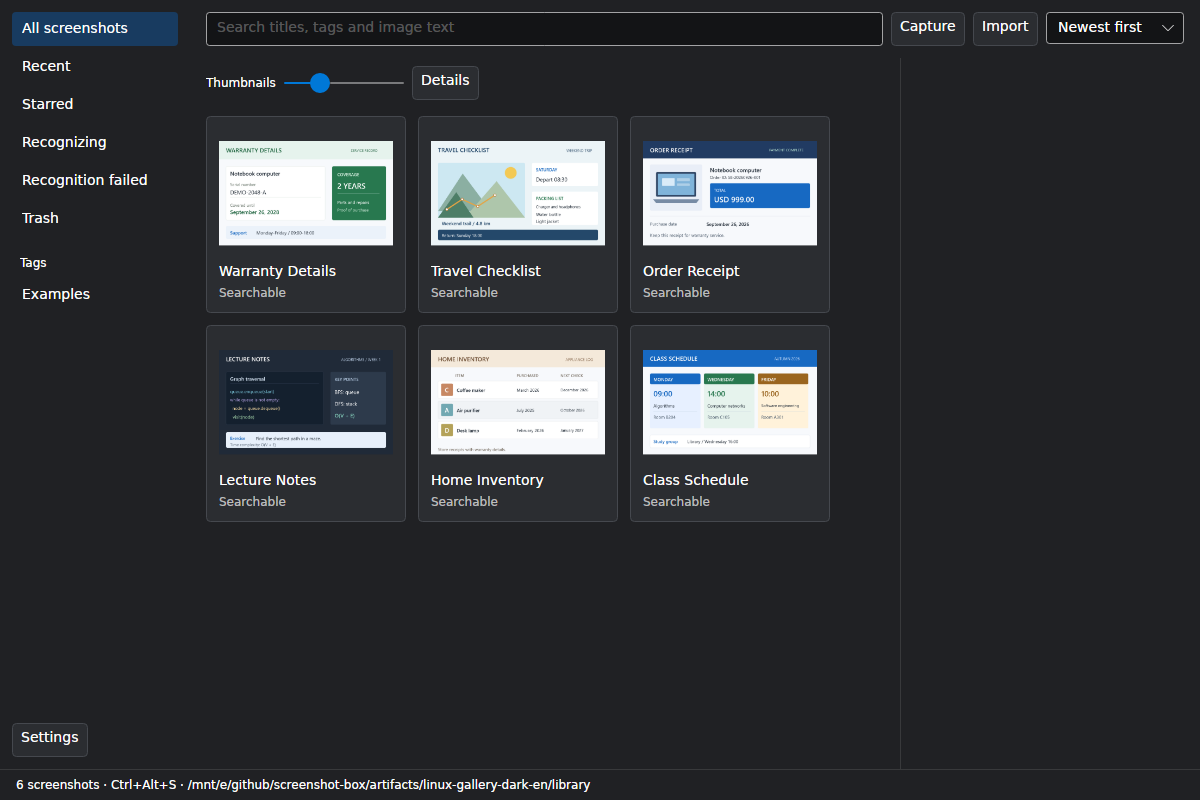
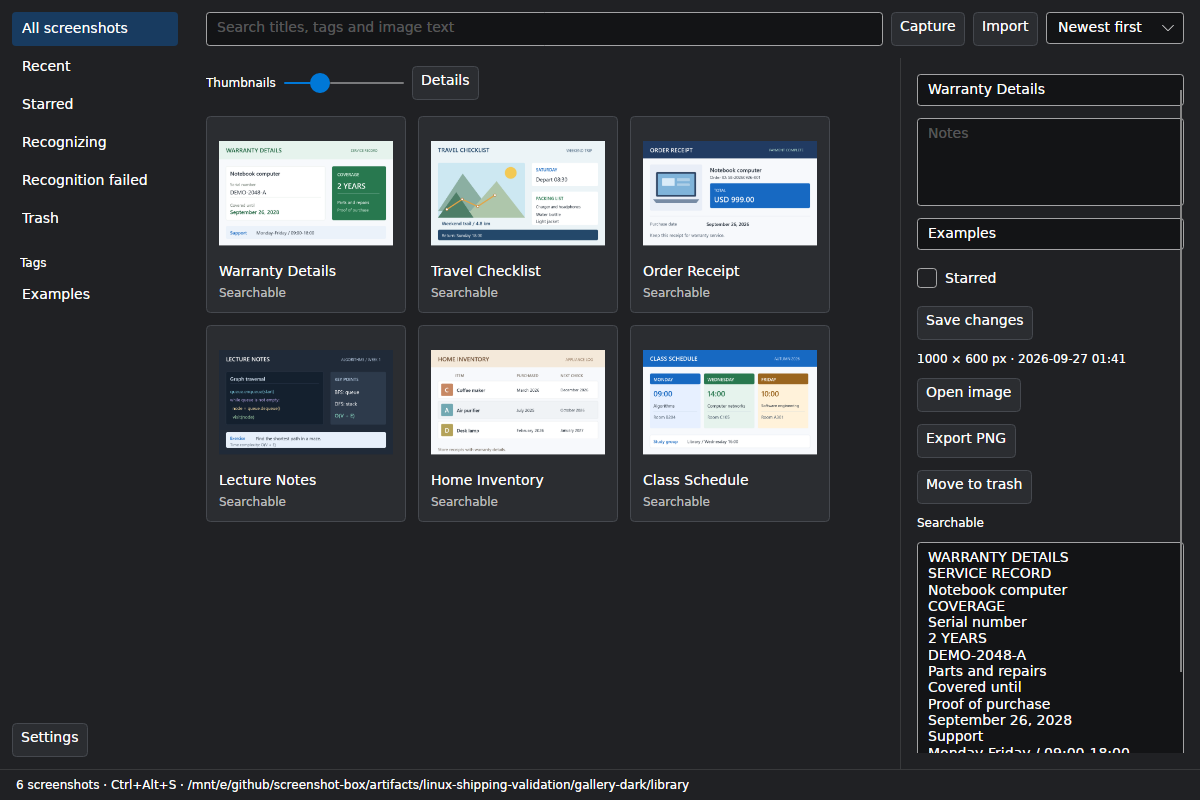
Document verified Linux release and refresh native interface images

diff --git a/docs/en/linux.md b/docs/en/linux.md
@@ -28,7 +28,7 @@ cd ScreenshotBox-0.1.5-linux.1-linux-x64
 
 An X11 display must be available. On an Ubuntu login screen, select an Xorg session if your desktop offers one. Screenshot capture and global shortcuts are disabled in a Wayland session; importing and searching existing images remain available.
 
-The package requires normal Linux desktop libraries, including X11, fontconfig, ICU, OpenSSL and the C/C++ runtime. It has been exercised on Ubuntu 20.04.3 with glibc 2.31. A missing library error can be investigated with:
+The package requires normal Linux desktop libraries, including X11, fontconfig, ICU, OpenSSL and the C/C++ runtime. It has been exercised on Ubuntu 20.04.3 with glibc 2.31. This is an experimental compatibility check: Ubuntu 20.04 is outside the current [.NET Ubuntu support list](https://learn.microsoft.com/en-us/dotnet/core/install/linux-ubuntu-install). A missing library error can be investigated with:
 
 ```bash
 ldd ./ScreenshotBox.Linux
@@ -36,6 +36,12 @@ ldd ./libSkiaSharp.so
 ldd ./libHarfBuzzSharp.so
 ldd ./libonnxruntime.so
 ldd ./libe_sqlite3.so
+```
+
+The archive is **81,310,804 bytes (77.54 MiB)**; the extracted directory is about **159.8 MiB**. SHA-256:
+
+```text
[1 lines of base64/hex data omitted]
 ```
 
 ## Install for the current user
@@ -116,12 +122,19 @@ Checks on **Ubuntu 20.04.3 / WSL, .NET 10.0.12**:
 | Linux capture component checks | 42 passed |
 | App components: English light and Chinese dark, native clipboard, second launch, edit focus, real 760 DIP window | 20 passed in each language |
 | User-only installer transactions, ownership, rollback and uninstall | 19 passed |
+| Archive permissions, ownership, payload integrity and symlink rejection | 8 passed |
+| Complete release install, update and uninstall in a Chinese path with spaces | 10 passed |
+| Final archive extraction permissions and installation lifecycle on a Linux filesystem | 13 passed |
+| Installed self-contained app in the Chinese path with spaces | 20 passed |
+| Uninstall after the app ran: original, thumbnail, database and additional files preserved | 7 passed |
 | SQLite 3.53.3 source build | Exact source ID and source checksums verified; FTS5, JSON, math, R-tree and required exports passed; maximum required glibc 2.29 |
 | Shared OCR extraction, Windows WPF Release build | Passed with no warnings or errors |
 
 Records: [capture](../test-results/linux-0.1.5-linux.1/capture.json), [services](../test-results/linux-0.1.5-linux.1/services.json), [English app](../test-results/linux-0.1.5-linux.1/app-en.json), [Chinese app](../test-results/linux-0.1.5-linux.1/app-zh.json) and [installer](../test-results/linux-0.1.5-linux.1/installer.json). These records use synthetic data; workspace paths have been replaced with a placeholder.
 
 The service OCR fixture produced five line boxes. Image-only searches found `课程`, `订单`, `保修`, `B204`, `English` and `2026-09-27`. These are programmatic component and integration checks. They do not establish that every desktop shortcut, compositor or clipboard destination works.
+
+The self-contained executable repeated the 20 app checks in each language with `DOTNET_ROOT=/nonexistent` and a path excluding the local SDK. Process-local checks blocked outgoing TCP connections except the local X11 server; Chinese CPU OCR produced five saved line boxes, and all six image-text queries still matched after restart. The final archive was extracted on a Linux filesystem and installed in a Chinese path with spaces; the installed executable passed [20 app checks](../test-results/linux-0.1.5-linux.1/installed-app.json). [Extraction and installation checks](../test-results/linux-0.1.5-linux.1/final-archive-install.json) passed 13 checks. [Uninstall after execution](../test-results/linux-0.1.5-linux.1/installed-app-uninstall.json) retained the database, original and thumbnail with unchanged hashes. The host still contains developer tools. This does not replace a disconnected fresh-machine test. See the [release checks](../test-results/linux-0.1.5-linux.1/self-contained-release.json), [complete installation checks](../test-results/linux-0.1.5-linux.1/full-release-install.json) and [package record](../test-results/linux-0.1.5-linux.1/package.json).
 
 Wayland capture and portal-based shortcuts are not implemented. Mixed-DPI multi-monitor capture, physical Ubuntu desktop sessions, manual image pastes into common Linux applications and a disconnected fresh machine without developer tools have not been verified. OCR can misread text; highlights follow whole recognized lines. The Linux preview should be evaluated separately from the Windows release.
 

diff --git a/docs/linux.md b/docs/linux.md
@@ -28,7 +28,7 @@ cd ScreenshotBox-0.1.5-linux.1-linux-x64
 
 An X11 display must be available. On an Ubuntu login screen, select an Xorg session if your desktop offers one. Screenshot capture and global shortcuts are disabled in a Wayland session; importing and searching existing images remain available.
 
-The package requires normal Linux desktop libraries, including X11, fontconfig, ICU, OpenSSL and the C/C++ runtime. It has been exercised on Ubuntu 20.04.3 with glibc 2.31. A missing library error can be investigated with:
+The package requires normal Linux desktop libraries, including X11, fontconfig, ICU, OpenSSL and the C/C++ runtime. It has been exercised on Ubuntu 20.04.3 with glibc 2.31. This is an experimental compatibility check: Ubuntu 20.04 is outside the current [.NET Ubuntu support list](https://learn.microsoft.com/en-us/dotnet/core/install/linux-ubuntu-install). A missing library error can be investigated with:
 
 ```bash
 ldd ./ScreenshotBox.Linux
@@ -36,6 +36,12 @@ ldd ./libSkiaSharp.so
 ldd ./libHarfBuzzSharp.so
 ldd ./libonnxruntime.so
 ldd ./libe_sqlite3.so
+```
+
+The archive is **81,310,804 bytes (77.54 MiB)**; the extracted directory is about **159.8 MiB**. SHA-256:
+
+```text
[1 lines of base64/hex data omitted]
 ```
 
 ## Install for the current user
@@ -116,12 +122,19 @@ Checks on **Ubuntu 20.04.3 / WSL, .NET 10.0.12**:
 | Linux capture component checks | 42 passed |
 | App components: English light and Chinese dark, native clipboard, second launch, edit focus, real 760 DIP window | 20 passed in each language |
 | User-only installer transactions, ownership, rollback and uninstall | 19 passed |
+| Archive permissions, ownership, payload integrity and symlink rejection | 8 passed |
+| Complete release install, update and uninstall in a Chinese path with spaces | 10 passed |
+| Final archive extraction permissions and installation lifecycle on a Linux filesystem | 13 passed |
+| Installed self-contained app in the Chinese path with spaces | 20 passed |
+| Uninstall after the app ran: original, thumbnail, database and additional files preserved | 7 passed |
 | SQLite 3.53.3 source build | Exact source ID and source checksums verified; FTS5, JSON, math, R-tree and required exports passed; maximum required glibc 2.29 |
 | Shared OCR extraction, Windows WPF Release build | Passed with no warnings or errors |
 
 Records: [capture](test-results/linux-0.1.5-linux.1/capture.json), [services](test-results/linux-0.1.5-linux.1/services.json), [English app](test-results/linux-0.1.5-linux.1/app-en.json), [Chinese app](test-results/linux-0.1.5-linux.1/app-zh.json) and [installer](test-results/linux-0.1.5-linux.1/installer.json). These records use synthetic data; workspace paths have been replaced with a placeholder.
 
 The service OCR fixture produced five line boxes. Image-only searches found `课程`, `订单`, `保修`, `B204`, `English` and `2026-09-27`. These are programmatic component and integration checks. They do not establish that every desktop shortcut, compositor or clipboard destination works.
+
+The self-contained executable repeated the 20 app checks in each language with `DOTNET_ROOT=/nonexistent` and a path excluding the local SDK. Process-local checks blocked outgoing TCP connections except the local X11 server; Chinese CPU OCR produced five saved line boxes, and all six image-text queries still matched after restart. The final archive was extracted on a Linux filesystem and installed in a Chinese path with spaces; the installed executable passed [20 app checks](test-results/linux-0.1.5-linux.1/installed-app.json). [Extraction and installation checks](test-results/linux-0.1.5-linux.1/final-archive-install.json) passed 13 checks. [Uninstall after execution](test-results/linux-0.1.5-linux.1/installed-app-uninstall.json) retained the database, original and thumbnail with unchanged hashes. The host still contains developer tools. This does not replace a disconnected fresh-machine test. See the [release checks](test-results/linux-0.1.5-linux.1/self-contained-release.json), [complete installation checks](test-results/linux-0.1.5-linux.1/full-release-install.json) and [package record](test-results/linux-0.1.5-linux.1/package.json).
 
 Wayland capture and portal-based shortcuts are not implemented. Mixed-DPI multi-monitor capture, physical Ubuntu desktop sessions, manual image pastes into common Linux applications and a disconnected fresh machine without developer tools have not been verified. OCR can misread text; highlights follow whole recognized lines. The Linux preview should be evaluated separately from the Windows release.
 

diff --git a/docs/zh-CN/linux.md b/docs/zh-CN/linux.md
@@ -28,7 +28,7 @@ cd ScreenshotBox-0.1.5-linux.1-linux-x64
 
 运行时需要可连接的 X11 显示服务。如果 Ubuntu 登录界面提供 Xorg 会话，可先选择该会话。Wayland 会话下禁用截图与全局快捷键，仍可导入和搜索已有图片。
 
-程序依赖正常 Linux 桌面系统提供的 X11、fontconfig、ICU、OpenSSL 和 C/C++ 运行库。目前已在 Ubuntu 20.04.3、glibc 2.31 上运行验证。遇到缺少共享库的问题，可检查：
+程序依赖正常 Linux 桌面系统提供的 X11、fontconfig、ICU、OpenSSL 和 C/C++ 运行库。目前已在 Ubuntu 20.04.3、glibc 2.31 上运行验证。这属于实验性兼容检查：Ubuntu 20.04 不在当前 [.NET 的 Ubuntu 支持列表](https://learn.microsoft.com/en-us/dotnet/core/install/linux-ubuntu-install)中。遇到缺少共享库的问题，可检查：
 
 ```bash
 ldd ./ScreenshotBox.Linux
@@ -36,6 +36,12 @@ ldd ./libSkiaSharp.so
 ldd ./libHarfBuzzSharp.so
 ldd ./libonnxruntime.so
 ldd ./libe_sqlite3.so
+```
+
+压缩包为 **81,310,804 字节（77.54 MiB）**，解压后的目录约 **159.8 MiB**。SHA-256：
+
+```text
[1 lines of base64/hex data omitted]
 ```
 
 ## 为当前用户安装
@@ -116,10 +122,17 @@ dotnet test tests/ScreenshotBox.Core.Tests/ScreenshotBox.Core.Tests.csproj --no-
 | Linux 截图组件检查 | 42 项通过 |
 | 英文浅色与中文深色应用组件：剪贴板、重复启动、编辑焦点及真实 760 DIP 窗口 | 两种语言各 20 项通过 |
 | 当前用户安装事务、所有权、回滚及卸载 | 19 项通过 |
+| 归档权限、所有者字段、内容完整性与符号链接拒绝 | 8 项通过 |
+| 完整发行包在中文空格路径安装、更新与卸载 | 10 项通过 |
+| 最终归档在 Linux 文件系统解压后的权限与安装过程 | 13 项通过 |
+| 中文空格安装路径中的自带运行时程序 | 20 项通过 |
+| 实际启动后的卸载：原图、缩略图、数据库与附加文件保留 | 7 项通过 |
 | SQLite 3.53.3 源码构建 | SOURCE_ID 与源码校验值一致；FTS5、JSON、数学函数、R-tree 和所需导出通过；最高 glibc 依赖为 2.29 |
 | OCR 共享模块提取后的 Windows WPF Release 构建 | 通过，无警告或错误 |
 
 服务验证的合成图片识别出 5 行文字框。仅凭图片文字即可搜索“课程”“订单”“保修”、`B204`、`English` 和 `2026-09-27`。上述结果属于程序化组件与集成检查，不能据此认定所有桌面快捷键、合成器或粘贴目标都已验证。
+
+自带运行时的发行程序在 `DOTNET_ROOT=/nonexistent`、不包含本地 SDK 的 PATH 下重新通过两种语言各 20 项应用检查。进程内检查阻止了除本机 X11 服务外的 TCP 连接；中文 CPU OCR 保存了 5 个文字行框，重启后六个图片文字查询仍然匹配。最终归档在 Linux 文件系统解压并安装到中文空格路径后，安装位置的程序通过 [20 项应用检查](../test-results/linux-0.1.5-linux.1/installed-app.json)，[解压与安装检查](../test-results/linux-0.1.5-linux.1/final-archive-install.json)通过 13 项。[运行后的卸载检查](../test-results/linux-0.1.5-linux.1/installed-app-uninstall.json)确认数据库、原图和缩略图的哈希保持不变。本机仍安装有开发工具，这不等同于全新断网电脑验证。见[发行程序检查](../test-results/linux-0.1.5-linux.1/self-contained-release.json)、[完整安装检查](../test-results/linux-0.1.5-linux.1/full-release-install.json)和[打包记录](../test-results/linux-0.1.5-linux.1/package.json)。
 
 Wayland 截图和基于 portal 的快捷键尚未实现。混合 DPI 多屏、实机 Ubuntu 桌面、常用 Linux 应用的手工图片粘贴，以及未安装开发工具的新机器断网运行，尚未验证。OCR 可能识别错误，高亮按识别出的整行显示。Linux 试用版的验证范围独立于 Windows 发行版。
 

diff --git a/README.en.md b/README.en.md
@@ -9,10 +9,11 @@
 [English](README.md) · [简体中文](README.zh-CN.md)
 
 [![Windows CI](https://github.com/liugedragon/screenshot-box/actions/workflows/windows.yml/badge.svg?branch=main)](https://github.com/liugedragon/screenshot-box/actions/workflows/windows.yml)
+[![Linux CI](https://github.com/liugedragon/screenshot-box/actions/workflows/linux.yml/badge.svg?branch=main)](https://github.com/liugedragon/screenshot-box/actions/workflows/linux.yml)
 [![Release](https://img.shields.io/github/v/release/liugedragon/screenshot-box?include_prereleases&label=release)](https://github.com/liugedragon/screenshot-box/releases)
 [![MIT](https://img.shields.io/badge/license-MIT-1769C2)](LICENSE)
 
-[**Download installer**](https://github.com/liugedragon/screenshot-box/releases/download/v0.1.4/ScreenshotBox-0.1.4-win-x64-setup.exe) · [**Download ZIP**](https://github.com/liugedragon/screenshot-box/releases/download/v0.1.4/ScreenshotBox-0.1.4-win-x64.zip) · [User guide](docs/usage.md) · [Report a problem](https://github.com/liugedragon/screenshot-box/issues/new/choose)
+[**Download installer**](https://github.com/liugedragon/screenshot-box/releases/download/v0.1.4/ScreenshotBox-0.1.4-win-x64-setup.exe) · [**Download ZIP**](https://github.com/liugedragon/screenshot-box/releases/download/v0.1.4/ScreenshotBox-0.1.4-win-x64.zip) · [**Linux preview**](https://github.com/liugedragon/screenshot-box/releases/tag/v0.1.5-linux.1) · [User guide](docs/usage.md) · [Report a problem](https://github.com/liugedragon/screenshot-box/issues/new/choose)
 
 </div>
 
@@ -22,7 +23,7 @@ For **Windows 11 x64**. No account, API key, Python, or dedicated GPU required. 
 
 ![Screenshot library with text search and image details](docs/images/en/library-light.png)
 
-*Version 0.1.3, with English sample documents and metadata. All sample content is synthetic. The interface follows the Windows display language: Chinese for Chinese display languages, English for all others. Choose System, 简体中文, or English in Settings; restart to apply.*
+*Version 0.1.3, with English sample documents and metadata. All sample content is synthetic. The interface follows the Windows display language: Chinese for Chinese display languages, English for all others. Choose System, Simplified Chinese, or English in Settings; restart to apply.*
 
 ## Get started
 

diff --git a/README.md b/README.md
@@ -9,10 +9,11 @@
 English · [简体中文](README.zh-CN.md)
 
 [![Windows CI](https://github.com/liugedragon/screenshot-box/actions/workflows/windows.yml/badge.svg?branch=main)](https://github.com/liugedragon/screenshot-box/actions/workflows/windows.yml)
+[![Linux CI](https://github.com/liugedragon/screenshot-box/actions/workflows/linux.yml/badge.svg?branch=main)](https://github.com/liugedragon/screenshot-box/actions/workflows/linux.yml)
 [![Release](https://img.shields.io/github/v/release/liugedragon/screenshot-box?include_prereleases&label=release)](https://github.com/liugedragon/screenshot-box/releases)
 [![MIT](https://img.shields.io/badge/license-MIT-1769C2)](LICENSE)
 
-[**Download installer**](https://github.com/liugedragon/screenshot-box/releases/download/v0.1.4/ScreenshotBox-0.1.4-win-x64-setup.exe) · [**Download ZIP**](https://github.com/liugedragon/screenshot-box/releases/download/v0.1.4/ScreenshotBox-0.1.4-win-x64.zip) · [User guide](docs/usage.md) · [Report a problem](https://github.com/liugedragon/screenshot-box/issues/new/choose)
+[**Download installer**](https://github.com/liugedragon/screenshot-box/releases/download/v0.1.4/ScreenshotBox-0.1.4-win-x64-setup.exe) · [**Download ZIP**](https://github.com/liugedragon/screenshot-box/releases/download/v0.1.4/ScreenshotBox-0.1.4-win-x64.zip) · [**Linux preview**](https://github.com/liugedragon/screenshot-box/releases/tag/v0.1.5-linux.1) · [User guide](docs/usage.md) · [Report a problem](https://github.com/liugedragon/screenshot-box/issues/new/choose)
 
 </div>
 
@@ -22,7 +23,7 @@ For **Windows 11 x64**. No account, API key, Python, or dedicated GPU required. 
 
 ![Screenshot library with text search and image details](docs/images/en/library-light.png)
 
-*Version 0.1.3, with English sample documents and metadata. All sample content is synthetic. The interface follows the Windows display language: Chinese for Chinese display languages, English for all others. Choose System, 简体中文, or English in Settings; restart to apply.*
+*Version 0.1.3, with English sample documents and metadata. All sample content is synthetic. The interface follows the Windows display language: Chinese for Chinese display languages, English for all others. Choose System, Simplified Chinese, or English in Settings; restart to apply.*
 
 ## Get started
 

diff --git a/CONTRIBUTING.md b/CONTRIBUTING.md
@@ -6,7 +6,7 @@ English · [简体中文](CONTRIBUTING.zh-CN.md)
 
 Check the [known limitations](docs/limitations.md), then use an [issue template](https://github.com/liugedragon/screenshot-box/issues/new/choose). Include:
 
-- App and Windows versions, and whether you used the installer or ZIP.
+- App and operating system versions, and the installation method. For Linux, include the distribution and X11/Wayland session.
 - Monitor count, resolution, scaling, and relative position of each display.
 - Steps to reproduce, expected and actual behavior, and the exact error message.
 - A synthetic or redacted test image where relevant.
@@ -23,6 +23,8 @@ Describe the use case, the problem, and your current workaround. Open an issue b
 2. Follow the [build guide](docs/build.md) to prepare Windows x64 and .NET SDK 10.0.401.
 3. Run `powershell -ExecutionPolicy Bypass -File scripts/build.ps1`. For capture or annotation changes, also run the [capture pixel tests](tests/ScreenshotBox.Capture.Probe/README.md).
 4. Open a PR describing the problem, new behavior, checks performed, and untested conditions. Include window screenshots with synthetic data for UI changes.
+
+For Linux changes, follow the [Linux build and test guide](docs/linux.md) and the [service checks](tests/ScreenshotBox.Linux.Services.Probe/README.md). Linux capture changes also need the [X11 capture checks](tests/ScreenshotBox.Linux.Capture.Probe/README.md). The steps above describe the Windows build.
 
 Keep dependency lock files. New components or models need a source, version, license, and distribution method. Do not commit models, user data, or build outputs. Update both languages when changing documentation or UI text. New controls should follow the [design guide](docs/design.md).
 

diff --git a/CONTRIBUTING.en.md b/CONTRIBUTING.en.md
@@ -6,7 +6,7 @@
 
 Check the [known limitations](docs/limitations.md), then use an [issue template](https://github.com/liugedragon/screenshot-box/issues/new/choose). Include:
 
-- App and Windows versions, and whether you used the installer or ZIP.
+- App and operating system versions, and the installation method. For Linux, include the distribution and X11/Wayland session.
 - Monitor count, resolution, scaling, and relative position of each display.
 - Steps to reproduce, expected and actual behavior, and the exact error message.
 - A synthetic or redacted test image where relevant.
@@ -23,6 +23,8 @@ Describe the use case, the problem, and your current workaround. Open an issue b
 2. Follow the [build guide](docs/build.md) to prepare Windows x64 and .NET SDK 10.0.401.
 3. Run `powershell -ExecutionPolicy Bypass -File scripts/build.ps1`. For capture or annotation changes, also run the [capture pixel tests](tests/ScreenshotBox.Capture.Probe/README.md).
 4. Open a PR describing the problem, new behavior, checks performed, and untested conditions. Include window screenshots with synthetic data for UI changes.
+
+For Linux changes, follow the [Linux build and test guide](docs/linux.md) and the [service checks](tests/ScreenshotBox.Linux.Services.Probe/README.md). Linux capture changes also need the [X11 capture checks](tests/ScreenshotBox.Linux.Capture.Probe/README.md). The steps above describe the Windows build.
 
 Keep dependency lock files. New components or models need a source, version, license, and distribution method. Do not commit models, user data, or build outputs. Update both languages when changing documentation or UI text. New controls should follow the [design guide](docs/design.md).
 

diff --git a/CONTRIBUTING.zh-CN.md b/CONTRIBUTING.zh-CN.md
@@ -6,7 +6,7 @@
 
 查看[已知限制](docs/zh-CN/limitations.md)，然后使用 [Issue 模板](https://github.com/liugedragon/screenshot-box/issues/new/choose)。请提供：
 
-- 应用版本、Windows 版本，以及使用安装包还是 ZIP。
+- 应用与操作系统版本，以及安装方式。Linux 请注明发行版和 X11/Wayland 会话。
 - 显示器数量、分辨率、各屏幕缩放和相对位置。
 - 复现步骤、预期结果、实际结果和错误原文。
 - 适用时提供合成或脱敏的测试图片。
@@ -23,6 +23,8 @@
 2. 按[构建说明](docs/zh-CN/build.md)准备 Windows x64 和 .NET SDK 10.0.401。
 3. 运行 `powershell -ExecutionPolicy Bypass -File scripts/build.ps1`。涉及截图或标注时，运行[截图像素测试](tests/ScreenshotBox.Capture.Probe/README.zh-CN.md)。
 4. 提交 PR，说明问题、修改后的行为、验证方法和未测试的条件。界面修改请附使用合成资料的窗口截图。
+
+Linux 修改按 [Linux 构建与测试说明](docs/zh-CN/linux.md)和[服务检查](tests/ScreenshotBox.Linux.Services.Probe/README.zh-CN.md)准备；涉及截图时还需运行 [X11 截图检查](tests/ScreenshotBox.Linux.Capture.Probe/README.zh-CN.md)。上面的步骤描述 Windows 构建。
 
 保持依赖锁文件。新增组件或模型需记录来源、版本、许可证和分发方式。模型、用户数据和构建输出不提交到 Git。文档与界面文字修改需同步中英文；新增界面控件遵循[设计规范](docs/zh-CN/design.md)。
 

diff --git a/docs/ui-review.md b/docs/ui-review.md
@@ -4,7 +4,7 @@ English · [简体中文](zh-CN/ui-review.md)
 
 ## Linux 0.1.5-linux.1 · 2026-09-27
 
-Environment: WSL Ubuntu 20.04.3, XLaunch X11, Avalonia 12.1.3. Native application windows were shown and their client areas rendered with synthetic data.
+Environment: WSL Ubuntu 20.04.3, XLaunch X11, Avalonia 12.1.3. The self-contained release showed native application windows; their client areas were rendered with synthetic data. The settings window is 680 DIP high, and the details panel was rendered after its layout completed.
 
 English light and Chinese dark app checks passed 20 checks each: image clipboard read by another process, repeated-launch activation, edit text/focus/caret retention, and native 760 DIP resize confirmed through X11 geometry. The English gallery imported six colorful samples and produced 79 OCR line boxes. Matching warranty text is highlighted by its whole-line box in the original image.
 

diff --git a/docs/en/ui-review.md b/docs/en/ui-review.md
@@ -4,7 +4,7 @@
 
 ## Linux 0.1.5-linux.1 · 2026-09-27
 
-Environment: WSL Ubuntu 20.04.3, XLaunch X11, Avalonia 12.1.3. Native application windows were shown and their client areas rendered with synthetic data.
+Environment: WSL Ubuntu 20.04.3, XLaunch X11, Avalonia 12.1.3. The self-contained release showed native application windows; their client areas were rendered with synthetic data. The settings window is 680 DIP high, and the details panel was rendered after its layout completed.
 
 English light and Chinese dark app checks passed 20 checks each: image clipboard read by another process, repeated-launch activation, edit text/focus/caret retention, and native 760 DIP resize confirmed through X11 geometry. The English gallery imported six colorful samples and produced 79 OCR line boxes. Matching warranty text is highlighted by its whole-line box in the original image.
 

diff --git a/docs/zh-CN/ui-review.md b/docs/zh-CN/ui-review.md
@@ -4,7 +4,7 @@
 
 ## Linux 0.1.5-linux.1 · 2026-09-27
 
-环境：WSL Ubuntu 20.04.3、XLaunch X11、Avalonia 12.1.3。检查使用合成资料，显示原生应用窗口后渲染客户区。
+环境：WSL Ubuntu 20.04.3、XLaunch X11、Avalonia 12.1.3。检查使用合成资料，在自带运行时的发行程序中显示原生窗口并渲染客户区。设置窗口高 680 DIP，详情栏在布局完成后生成图片。
 
 英文浅色和中文深色各通过 20 项应用检查，覆盖独立进程读取图片剪贴板、重复启动激活、编辑内容与焦点及光标保留，并通过 X11 几何信息确认 760 DIP 窗口。英文图库导入六张彩色示例图，识别得到 79 个文字行框；原图预览按整行高亮保修关键词。
 

diff --git a/docs/architecture.md b/docs/architecture.md
@@ -25,6 +25,8 @@ A per-user mutex enforces one instance. A second normal launch signals the exist
 
 The Linux preview uses a private Unix socket for repeated-launch activation and keeps its library window available. It does not register login startup or use a tray icon.
 
+The capture, annotation, preview and editing sections describe the Windows frontend. Search, OCR and storage are shared; see the [Linux guide](linux.md) for frontend differences.
+
 ## Capture coordinates
 
 The virtual desktop origin can be negative. The app enumerates monitors, computes their combined physical rectangle, and freezes the desktop through GDI. Mouse positions come from `GetCursorPos`; selections and annotations use physical pixels.
